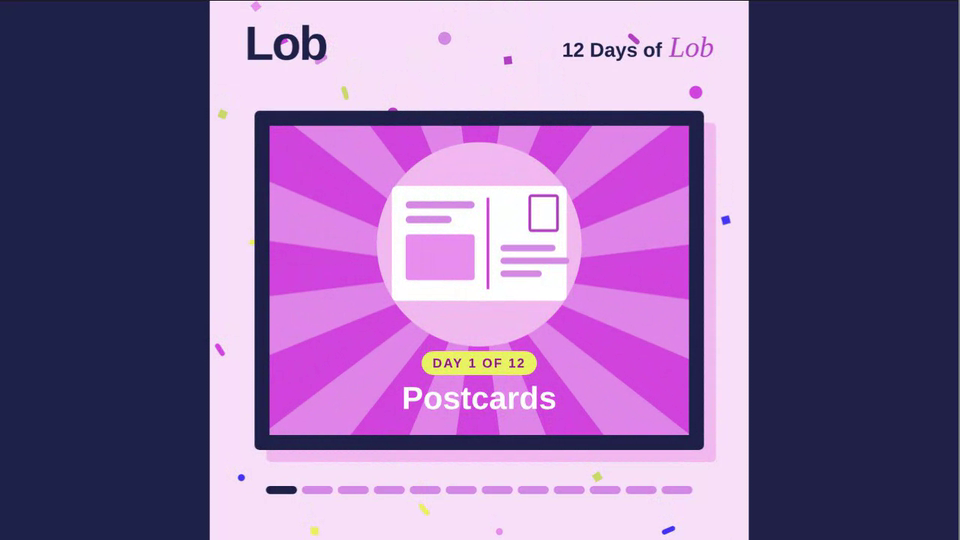
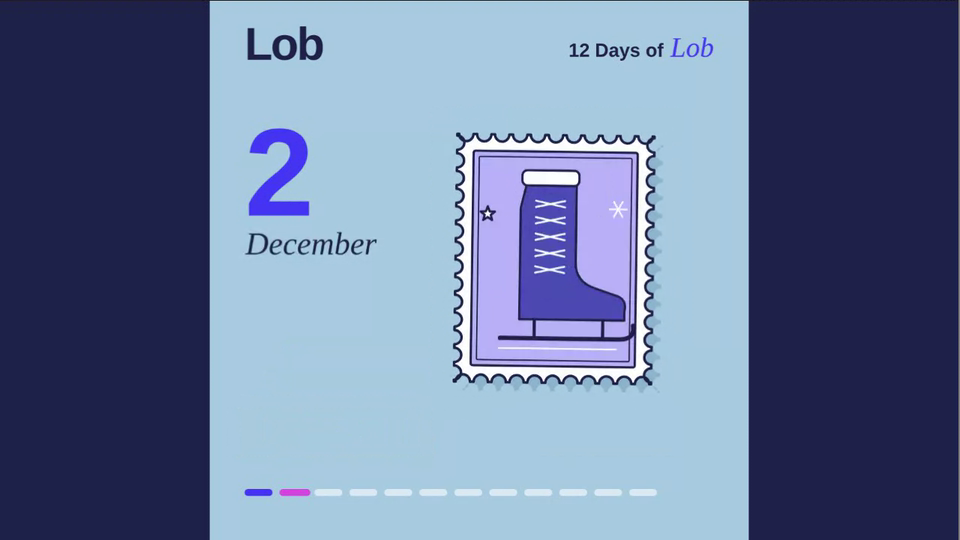
Lob 12 Days Advent: perforated holiday stamp illustrations in Lob pink and purple on blue, generous negative space
Claude-Session: https://claude.ai/code/session_01AHeBdxfESGkB61WPERPkmT

diff --git a/lob-12-days/index.html b/lob-12-days/index.html
@@ -4,7 +4,7 @@
 <meta charset="utf-8">
 <meta name="viewport" content="width=device-width, initial-scale=1, viewport-fit=cover">
 <title>Lob 12 Days Advent</title>
-<meta name="description" content="A 1:1 social motion post for the 12 Days of Lob advent calendar: a wrapped door opens on each day, revealing a flat vector illustration and a title.">
+<meta name="description" content="A 1:1 social motion post for the 12 Days of Lob advent calendar: a perforated holiday stamp drops in for each day with a flat line-art illustration and a title.">
 <style>
 :root{--sans:"Inter","Helvetica Neue",Helvetica,Arial,sans-serif;--navy:#1F2149;--pink:#F8E0F9;--mag:#B042C2;--btn:#4534F2}
 *{box-sizing:border-box;margin:0}
@@ -16,7 +16,7 @@ nav.back a{color:#8d8d8d;text-decoration:none}nav.back a:hover,nav.back a:focus-
 nav.back span{color:#6e6e6e}nav.back b{font-weight:500;color:#fff;overflow:hidden;text-overflow:ellipsis}
 @media(max-width:640px){nav.back{padding:0 16px}nav.back .x{display:none}}
 .wrap{flex:1;min-height:0;display:flex;align-items:center;justify-content:center;padding:12px}
-canvas{display:block;aspect-ratio:1/1;width:min(100%,calc(100dvh - 49px - 120px));max-width:100%;height:auto;background:var(--pink)}
+canvas{display:block;aspect-ratio:1/1;width:min(100%,calc(100dvh - 49px - 120px));max-width:100%;height:auto;background:#A9CCE0}
 .ctl{flex:none;display:flex;flex-wrap:wrap;gap:10px;align-items:center;justify-content:center;padding:10px 16px 16px}
 .days{display:flex;flex-wrap:wrap;gap:6px;justify-content:center}
 .days button,.ctl .b{min-width:34px;height:34px;padding:0 12px;border-radius:99px;border:1px solid rgba(255,255,255,.25);background:none;cursor:pointer;font-weight:600}
@@ -43,11 +43,11 @@ button:focus-visible,input:focus-visible{outline:2px solid #EAF265;outline-offse
 (function(){
 const CLIP=location.hash==='#clip';
 if(CLIP)document.body.classList.add('clip');
-const LW=6,S=1080;
+const LW=4,S=1080;
 const C={bg:'#F8E0F9',shadow:'#F1B9F0',navy:'#1F2149',tab:'#2B2D6D',mag:'#B042C2',lime:'#C9DA6A',blue:'#5049BC',card:'#D244DE',panel:'#E084E9',pale:'#E88EEE',yellow:'#EAF265',btn:'#4534F2',btnDown:'#2A1BC4',plus:'#9382F4',chip:'#D489E4',chipInk:'#8F1A96',white:'#fff'};
-const titles=['Postcards','Address verification','QR codes','Postage','Local targeting','Letters','Send scheduling','Replies','Video follow-ups','Gift sends','Customer love','Happy holidays'];
+const titles=['Tree trimming','Ice skates','Cozy cat','Ornaments','Hot cocoa','Wreath','Mini tree','Candy canes','Holly','Gift wrap','Snow globe','Stocking'];
 const D=4.4;
-let day=0,lt=0,playing=true,speed=CLIP?2:1,T=0;
+let day=0,lt=CLIP?1.9:0,playing=true,speed=CLIP?2:1,T=0;
 const cv=document.getElementById('c'),x=cv.getContext('2d');
 
 /* ---------- helpers ---------- */
@@ -66,118 +66,127 @@ function txt(s,a,b,size,col,{w='bold',f='Arial',al='left',ls=0,it=false,max=0}={
   if(max){while(x.measureText(s).width>max&&sz>20){sz-=2;set()}}
   x.fillText(s,a,b);x.restore()}
 
-/* ---------- background confetti ---------- */
-function confetti(){
-  const cols=[C.mag,C.card,C.lime,C.btn,C.yellow,C.pale,C.chip];
-  for(let i=0;i<46;i++){
-    const sp=18+(i%4)*9,px=(i*137.5)%S+Math.sin(T*.8+i)*14,py=((i*91+T*sp)%(S+120))-60,c=cols[i%7],r=T*(.6+i%3*.4)+i;
-    x.save();x.translate(px,py);x.rotate(r);x.fillStyle=c;
-    const k=i%3;if(k===0){x.beginPath();x.arc(0,0,7+i%4*2,0,7);x.fill()}else if(k===1)x.fillRect(-8,-8,16,16);else rr(-14,-5,28,10,5,c);
-    x.restore()}
-}
-
-/* ---------- bow ---------- */
-function bow(cx,cy,s,rot,a){
-  x.save();x.globalAlpha=a;x.translate(cx,cy);x.rotate(rot);x.scale(s,s);
-  const loop=(sg)=>{x.beginPath();x.moveTo(0,0);x.bezierCurveTo(sg*30,-90,sg*150,-100,sg*150,-40);x.bezierCurveTo(sg*150,10,sg*60,20,0,0);x.fillStyle=C.card;x.fill();x.strokeStyle=C.mag;x.lineWidth=LW;x.stroke();
-    x.beginPath();x.moveTo(sg*18,-6);x.bezierCurveTo(sg*50,-50,sg*100,-60,sg*118,-38);x.strokeStyle=C.pale;x.stroke()};
-  poly([[-26,10],[-70,90],[-40,84],[-26,110],[0,20]],C.mag);poly([[26,10],[70,90],[40,84],[26,110],[0,20]],C.mag);
-  loop(-1);loop(1);rr(-28,-26,56,52,14,C.mag,C.navy);
-  x.restore()}
-
-/* ---------- illustrations (centred on 0,0, ~380 wide) ---------- */
-const ill=[
- ()=>{rr(-190,-125,380,250,10,C.white);x.fillStyle=C.card;x.fillRect(16,-100,LW,200);
-  pill(-160,-84,150,16,C.chip);pill(-160,-52,100,16,C.chip);rr(-160,-20,150,100,6,C.pale);
-  rr(110,-104,60,76,4,null,C.mag);pill(46,10,120,14,C.chip);pill(46,38,150,14,C.chip);pill(46,66,90,14,C.chip);
-  x.setLineDash([8,9]);x.lineDashOffset=-T*20;rr(40,-100,0,0,0);x.setLineDash([])},
- ()=>{rr(-18,40,36,150,6,C.chip);x.beginPath();x.moveTo(-140,50);x.lineTo(-140,-20);x.arc(0,-20,140,Math.PI,0);x.lineTo(140,50);x.closePath();x.fillStyle=C.navy;x.fill();
-  rr(-40,-70,0,0,0);rr(-96,-10,192,10,5,C.tab);rr(-60,-122+(Math.sin(T*4)*3),120,90,6,C.white);pill(-40,-100,80,10,C.chip);pill(-40,-76,50,10,C.chip);
-  x.save();x.translate(150,-30);x.rotate(-.1*Math.sin(T*3));rr(-8,-90,16,120,4,C.chip);rr(0,-92,70,40,6,C.yellow);x.restore()},
- ()=>{rr(-150,-150,300,300,14,C.white);const cs=18,o=-135;
-  const fin=(i,j)=>{rr(o+i*cs,o+j*cs,7*cs,7*cs,4,C.navy);rr(o+(i+1)*cs,o+(j+1)*cs,5*cs,5*cs,2,C.white);rr(o+(i+2)*cs,o+(j+2)*cs,3*cs,3*cs,2,C.mag)};
-  fin(0,0);fin(8,0);fin(0,8);
-  for(let i=0;i<15;i++)for(let j=0;j<15;j++){if((i<8&&j<8)||(i>=8&&j<8)||(i<8&&j>=8))continue;if(((i*7+j*13+i*j)%5)<2)continue;rr(o+i*cs+2,o+j*cs+2,cs-4,cs-4,2,(i+j)%6?C.navy:C.mag)}
-  x.fillStyle=C.yellow;x.globalAlpha=.9;x.fillRect(-150,-150+((T*140)%300),300,LW);x.globalAlpha=1},
- ()=>{x.save();x.rotate(Math.sin(T*1.8)*.05);rr(-130,-165,260,330,4,C.yellow);x.fillStyle=C.card;for(let k=-5;k<=5;k++){circ(k*24,-165,8,C.card);circ(k*24,165,8,C.card)}for(let k=-6;k<=6;k++){circ(-130,k*24,8,C.card);circ(130,k*24,8,C.card)}
-  rr(-104,-138,208,276,2,C.navy);x.save();x.translate(0,8);heart(C.white,.78+Math.max(0,Math.sin(T*3))*.04);x.restore();x.restore()},
- ()=>{for(let i=0;i<3;i++){const p=((T*.5+i/3)%1);x.save();x.globalAlpha=1-p;x.beginPath();x.ellipse(0,120,60+p*150,18+p*40,0,0,7);x.strokeStyle=C.white;x.lineWidth=LW;x.stroke();x.restore()}
-  const by=-Math.abs(Math.sin(T*2.4))*18;x.save();x.translate(0,by);x.beginPath();x.moveTo(0,125);x.bezierCurveTo(-30,70,-125,30,-125,-40);x.arc(0,-40,125,Math.PI,0);x.bezierCurveTo(125,30,30,70,0,125);x.fillStyle=C.yellow;x.fill();circ(0,-40,56,C.navy);circ(0,-40,22,C.yellow);x.restore()},
- ()=>{rr(-190,-110,380,230,8,C.white);poly([[-190,-102],[0,30],[190,-102]],C.pale,C.chipInk);poly([[-190,112],[-60,-10],[-52,-4],[0,32]],null,C.chipInk);poly([[190,112],[60,-10],[52,-4],[0,32]],null,C.chipInk);circ(0,28,30,C.mag);star(0,28,16,8,5,C.yellow,-Math.PI/2+T)},
- ()=>{rr(-170,-150,340,300,10,C.white);rr(-170,-150,340,64,10,C.navy);x.fillStyle=C.navy;x.fillRect(-170,-120,340,34);
-  for(const px of[-90,0,90])rr(px-14,-176,28,56,14,C.yellow);
-  const cell=(i,j)=>[-135+i*58,-62+j*58];const ticks=[[0,0],[2,0],[1,1],[3,2],[0,2]];
-  for(let j=0;j<3;j++)for(let i=0;i<5;i++){const[cx,cy]=cell(i,j);rr(cx,cy,46,46,4,C.bg)}
-  const per=.3,n=ticks.length,pr=((T*1.1)%(n+1.5));
-  ticks.forEach(([i,j],k)=>{const p=cl(pr-k*1)*1;const pp=cl(pr-k);if(pp<=0)return;const[cx,cy]=cell(i,j);x.beginPath();x.moveTo(cx+10,cy+24);x.lineTo(cx+10+12*cl(pp*2.5),cy+24+10*cl(pp*2.5));if(pp>.4){x.lineTo(cx+22+(30-22+2)*cl((pp-.4)*2.5),cy+34-(34-10)*cl((pp-.4)*2.5))}x.strokeStyle=C.btn;x.lineWidth=LW+2;x.lineCap='round';x.lineJoin='round';x.stroke();x.lineCap='butt'})},
- ()=>{const b=Math.sin(T*2)*6;x.save();x.translate(-30,-30+b);x.beginPath();x.roundRect(-150,-90,300,170,26);x.fillStyle=C.yellow;x.fill();poly([[-90,70],[-60,70],[-100,120]],C.yellow);pill(-110,-40,140,14,C.mag);pill(-110,-8,220,14,C.mag);pill(-110,24,100,14,C.mag);x.restore();
-  x.save();x.translate(70,76-b);x.beginPath();x.roundRect(-20,-30,160,100,22);x.fillStyle=C.btn;x.fill();poly([[90,60],[120,60],[130,100]],C.btn);for(let i=0;i<3;i++)circ(20+i*34,20-Math.abs(Math.sin(T*4-i*.6))*12,8,C.white);x.restore()},
- ()=>{rr(-190,-120,380,240,22,C.navy);const p=1+Math.sin(T*4)*.06;x.save();x.scale(p,p);poly([[-30,-52],[-30,52],[56,0]],C.yellow);x.restore();
-  rr(-160,84,320,16,8,C.tab);const w=((T*.18)%1)*320;rr(-160,84,w,16,8,C.card);circ(-160+w,92,16,C.white);pill(-160,-96,70,10,C.tab);pill(110,-96,50,10,C.tab)},
- ()=>{const b=Math.abs(Math.sin(T*3))*10;rr(-150,-10,300,160,6,C.yellow);rr(-160,-60-b,320,56,6,C.lime);rr(-26,-60-b,52,210,0,C.card);x.fillStyle=C.card;x.fillRect(-26,-4,52,154);x.fillStyle=C.mag;x.fillRect(-26,-60-b,52,56);
-  x.save();x.translate(0,-60-b);x.beginPath();x.moveTo(0,0);x.bezierCurveTo(-30,-70,-110,-70,-90,-20);x.bezierCurveTo(-80,10,-30,0,0,0);x.moveTo(0,0);x.bezierCurveTo(30,-70,110,-70,90,-20);x.bezierCurveTo(80,10,30,0,0,0);x.fillStyle=C.white;x.fill();x.restore()},
- ()=>{const p=1+Math.max(0,Math.sin(T*3))*.07;x.save();x.translate(0,10);x.scale(p,p);x.scale(1.7,1.7);heart(C.white);x.restore();
-  for(let i=0;i<4;i++){const a=T*.8+i*Math.PI/2,r=190+Math.sin(T*2+i)*10;star(Math.cos(a)*r,Math.sin(a)*r*.7,20,8,4,i%2?C.yellow:C.lime,T)}},
- ()=>{x.save();x.translate(0,20);poly([[0,-170],[110,-40],[-110,-40]],C.lime);poly([[0,-90],[140,50],[-140,50]],C.lime,C.bg);poly([[0,-10],[175,140],[-175,140]],C.lime,C.bg);
-  x.setLineDash([2,14]);x.lineCap='round';x.beginPath();x.moveTo(-95,-30);x.quadraticCurveTo(0,10,95,-30);x.moveTo(-130,60);x.quadraticCurveTo(0,110,130,60);x.strokeStyle=C.btn;x.stroke();x.setLineDash([]);x.lineCap='butt';
-  rr(-22,140,44,40,0,C.navy);star(0,-190,34,14,5,C.yellow,-Math.PI/2);
-  [[0,-60],[-60,10],[60,10],[-100,100],[0,90],[100,100]].forEach(([a,b],i)=>{x.save();x.translate(a,b+Math.sin(T*3+i)*3);x.fillStyle=C.chipInk;x.beginPath();x.ellipse(0,6,8,14,0,0,7);x.fill();circ(-12,-12,6,C.chipInk);circ(12,-12,6,C.chipInk);x.fillRect(-2,16,4,10);x.restore()});x.restore()}
+/* ---------- stamp illustrations (flat fills, navy line work, perforated frames) ---------- */
+const BG='#A9CCE0',NV='#1F2149',PUR='#4B49B2',PUR2='#3B3A99',TINT='#B9B0F7',PK='#D244DE',PKL='#F1B9F0',PKXL='#F8E0F9',WH='#FFFFFF',SH='#8DB5CE';
+function sk(w){x.strokeStyle=NV;x.lineWidth=w||3.5;x.lineJoin='round';x.lineCap='round'}
+function fin(fill,stroke=true){if(fill){x.fillStyle=fill;x.fill()}if(stroke){sk();x.stroke()}}
+function poly(pts,fill,stroke){x.beginPath();pts.forEach((p,i)=>x[i?'lineTo':'moveTo'](p[0],p[1]));x.closePath();fin(fill,stroke)}
+function cir(cx,cy,r,fill,stroke){x.beginPath();x.arc(cx,cy,r,0,7);fin(fill,stroke)}
+function rct(px,py,w,h,r,fill,stroke){x.beginPath();x.roundRect(px,py,w,h,r);fin(fill,stroke)}
+function ell(cx,cy,rx,ry,rot,fill,stroke){x.beginPath();x.ellipse(cx,cy,rx,ry,rot||0,0,7);fin(fill,stroke)}
+function ln(pts,w,col){x.beginPath();pts.forEach((p,i)=>x[i?'lineTo':'moveTo'](p[0],p[1]));x.strokeStyle=col||NV;x.lineWidth=w||3.5;x.lineCap='round';x.lineJoin='round';x.stroke()}
+function spark(cx,cy,r,col,rot){x.save();x.translate(cx,cy);x.rotate(rot||0);for(let i=0;i<3;i++){x.rotate(Math.PI/3);ln([[-r,0],[r,0]],2.6,col||WH)}x.restore()}
+function stars(cx,cy,r1,r2,fill,rot){x.beginPath();for(let i=0;i<10;i++){const r=i%2?r2:r1,a=(rot||-Math.PI/2)+i*Math.PI/5;x.lineTo(cx+Math.cos(a)*r,cy+Math.sin(a)*r)}x.closePath();fin(fill)}
+function holly(lx,ly,rot,sc,col){x.save();x.translate(lx,ly);x.rotate(rot);x.scale(sc,sc);x.beginPath();x.moveTo(0,0);
+  const up=[[14,-16],[18,-8],[32,-24],[38,-9],[56,-22],[64,-4],[84,0]];up.forEach(p=>x.lineTo(p[0],p[1]));[[64,4],[56,22],[38,9],[32,24],[18,8],[14,16]].forEach(p=>x.lineTo(p[0],p[1]));x.closePath();fin(col);ln([[6,0],[70,0]],2.4,WH);x.restore()}
+const T_=()=>T;
+const art=[
+ /* 1 tree */ ()=>{poly([[0,-5],[118,112],[-118,112]],PUR);poly([[0,-68],[90,40],[-90,40]],PUR);poly([[0,-126],[58,-34],[-58,-34]],PUR);
+   rct(-50,108,100,18,4,PK);rct(-42,126,84,54,4,PK);
+   [[-40,70],[30,60],[-18,-10],[50,14],[0,-70]].forEach(([a,b])=>ln([[a,b],[a+8,b+17]],3,WH));
+   cir(-62,98,12,WH);cir(66,92,12,WH);cir(-30,26,11,WH);cir(40,-2,10,WH);cir(8,-60,9,WH);
+   const pu=1+Math.sin(T*3)*.08;x.save();x.translate(0,-148);x.scale(pu,pu);stars(0,0,26,11,PK);x.restore();spark(-120,-100,12,TINT);spark(112,-120,9,TINT)},
+ /* 2 skate */ ()=>{x.beginPath();x.moveTo(-42,-130);x.lineTo(34,-130);x.lineTo(34,6);x.quadraticCurveTo(34,36,66,46);x.lineTo(102,58);x.quadraticCurveTo(116,64,112,82);x.lineTo(112,96);x.lineTo(-54,96);x.lineTo(-54,-80);x.closePath();fin(PUR);
+   rct(-52,-140,90,24,8,WH);for(let y=-92;y<30;y+=26){ln([[-30,y],[16,y+10]],3,WH);ln([[16,y],[-30,y+10]],3,WH)}
+   x.beginPath();x.moveTo(-84,126);x.lineTo(104,126);x.quadraticCurveTo(130,126,126,104);sk(7);x.stroke();ln([[-30,96],[-30,126]],5);ln([[78,96],[78,126]],5);
+   ln([[-86,142],[100,142]],2.5,WH);stars(-106,-70,12,5,WH);spark(100,-80,14,WH)},
+ /* 3 cat in a box */ ()=>{x.beginPath();x.moveTo(-40,-60);x.bezierCurveTo(-140,-80,-120,-170,-60,-150);sk(30);x.stroke();x.beginPath();x.moveTo(-40,-60);x.bezierCurveTo(-140,-80,-120,-170,-60,-150);x.strokeStyle=WH;x.lineWidth=22;x.stroke();
+   ell(0,-6,98,64,0,WH);ell(-40,-18,26,22,0,TINT);poly([[40,-100],[52,-140],[82,-112]],WH);poly([[86,-100],[116,-136],[126,-90]],WH);cir(86,-60,52,WH);
+   cir(70,-62,5,NV,false);cir(104,-62,5,NV,false);ell(87,-46,6,4,0,PK);ln([[78,-36],[87,-30],[96,-36]],2.6);
+   poly([[-132,40],[132,40],[112,150],[-112,150]],WH);ln([[-132,40],[-100,70],[100,70],[132,40]],3);rct(-34,86,68,12,6,PUR,false);
+   x.beginPath();x.moveTo(-96,-26);x.bezierCurveTo(-40,10,10,-50,70,10);ln([[-96,-26],[-60,0],[-20,-14],[20,-18],[60,6]],2.6);
+   [[-90,-22,PK],[-50,2,WH],[-8,-14,PK],[28,-24,WH],[66,8,PK]].forEach(([a,b,c])=>cir(a,b,8,c));spark(-120,-120,12,WH);spark(130,-30,9,WH)},
+ /* 4 ornaments */ ()=>{[[-150,-72],[-52,-88],[50,-72],[148,-100]].forEach(([bx,by],i)=>{ln([[bx,-130],[bx,by-44]],2.6);});
+   rct(-163,-60,26,14,3,NV,false);cir(-150,-12,52,WH);spark(-150,-12,22,TINT);
+   rct(-62,-100,20,12,3,NV,false);x.beginPath();x.ellipse(-52,-30,36,60,0,0,7);fin(PK);ln([[-70,-36],[-52,-10]],3,PKXL);
+   rct(38,-60,24,14,3,NV,false);cir(50,-8,48,WH);spark(50,-8,20,TINT);
+   rct(138,-112,20,12,3,NV,false);x.beginPath();x.ellipse(148,-40,32,56,0,0,7);fin(PUR2);ln([[148,-96],[148,16]],2.4,TINT);
+   spark(-100,90,12,TINT);cir(100,100,5,TINT,false);cir(-10,110,4,WH,false)},
+ /* 5 cocoa */ ()=>{x.beginPath();x.arc(84,40,36,-1.3,1.3);sk(24);x.stroke();x.strokeStyle=PUR;x.lineWidth=14;x.stroke();
+   rct(-74,-20,148,126,16,PUR);rct(-56,-8,22,100,10,PUR2,false);
+   ell(0,-26,78,26,0,PK);x.beginPath();x.moveTo(-50,-56);x.bezierCurveTo(-60,-110,60,-120,56,-56);x.closePath();fin(PK);
+   [[-20,-70,-.3],[30,-62,.4],[-62,-58,.8]].forEach(([a,b,r])=>{x.save();x.translate(a,b);x.rotate(r);rct(-18,-18,36,36,6,WH);x.restore()});
+   [[-110,100,-.3],[104,112,.5]].forEach(([a,b,r])=>{x.save();x.translate(a,b);x.rotate(r);rct(-20,-20,40,40,7,WH);x.restore()});
+   ln([[-12,-10],[-4,10]],3,PKXL);spark(-120,-70,11,WH);spark(130,-40,9,WH)},
+ /* 6 wreath */ ()=>{for(let k=0;k<2;k++)for(let i=0;i<14;i++){const a=i*Math.PI*2/14+k*.22,r=k?78:104;x.save();x.translate(Math.cos(a)*r,Math.sin(a)*r+8);x.rotate(a+Math.PI/2+(k?.5:-.4));x.beginPath();x.ellipse(0,0,30,12,0,0,7);fin(PUR);ln([[-18,0],[20,0]],2,TINT);x.restore()}
+   [[.5],[2.1],[3.6],[5.3],[1.3]].forEach(([a],i)=>{cir(Math.cos(a)*92,Math.sin(a)*92+8,8,i%2?PKL:PK)});
+   ell(-34,-102,38,20,-.5,WH);ell(34,-102,38,20,.5,WH);cir(0,-98,13,WH);poly([[-8,-90],[-26,-52],[-6,-62]],WH);poly([[8,-90],[28,-52],[8,-62]],WH);
+   spark(-130,-110,11,TINT);spark(130,110,11,TINT);cir(130,-70,4,TINT,false)},
+ /* 7 mini tree */ ()=>{poly([[0,-60],[44,-14],[-44,-14]],WH);poly([[0,-30],[64,50],[-64,50]],WH);poly([[0,10],[84,110],[-84,110]],WH);
+   [[-36,-4],[0,6],[36,-4]].forEach(([a,b])=>0);for(let i=0;i<7;i++){cir(-50+i*16.6,22+Math.sin(i/6*Math.PI)*16,3,NV,false)}for(let i=0;i<9;i++){cir(-68+i*17,76+Math.sin(i/8*Math.PI)*18,3,NV,false)}for(let i=0;i<5;i++){cir(-26+i*13,-26+Math.sin(i/4*Math.PI)*10,2.6,NV,false)}
+   rct(-24,110,48,38,2,NV,false);const pu=1+Math.sin(T*3)*.1;x.save();x.translate(0,-84);x.scale(pu,pu);stars(0,0,20,8,PK);x.restore();spark(-70,-50,9,PKL)},
+ /* 8 candy canes */ ()=>{const cane=(rot,ox,oy)=>{x.save();x.translate(ox,oy);x.rotate(rot);x.beginPath();x.moveTo(-26,150);x.lineTo(-26,-40);x.arc(24,-40,50,Math.PI,0);x.lineTo(74,-14);
+     x.strokeStyle=NV;x.lineWidth=42;x.lineCap='butt';x.stroke();x.strokeStyle=WH;x.lineWidth=34;x.stroke();x.strokeStyle=PK;x.lineWidth=34;x.setLineDash([14,20]);x.lineDashOffset=-4;x.stroke();x.setLineDash([]);x.restore()};
+   cane(-.3,-30,10);cane(1.15,70,70);stars(110,-110,18,7,PK);stars(-110,-50,12,5,PK);[[-1,0],[0,-1],[1,-.6]].forEach(([a,b])=>ln([[90+a*34,-110+b*34],[90+a*52,-110+b*52]],3));
+   ln([[-120,-100],[-100,-80]],3);ln([[-96,-120],[-86,-96]],3)},
+ /* 9 holly */ ()=>{holly(-4,40,-2.3,1.9,PUR);holly(4,40,-.8,1.9,PUR);holly(-4,50,3.6,1.6,PUR);holly(4,50,.6,1.6,PUR);cir(-18,42,17,PK);cir(18,42,17,PK);cir(0,16,17,PK);ln([[-24,36],[-20,32]],3,PKXL);spark(-140,-80,12,TINT);spark(140,80,12,TINT)},
+ /* 10 gift */ ()=>{holly(-10,-90,-2.6,1.4,TINT);holly(10,-90,-.5,1.4,TINT);cir(0,-98,11,PK);cir(-16,-96,9,PKL);cir(16,-96,9,PKL);
+   poly([[-118,-60],[118,-72],[112,106],[-112,116]],WH);ln([[-6,-66],[-2,112]],3);ln([[-118,-6],[114,-14]],3);ell(-30,-82,34,18,-.5,WH);ell(30,-86,34,18,.5,WH);cir(0,-80,10,WH);
+   spark(-130,-110,10,WH);cir(110,-120,3,WH,false);cir(-120,126,3,WH,false)},
+ /* 11 snow globe */ ()=>{cir(0,-18,122,PKL);cir(0,-18,122,null);x.beginPath();x.arc(0,-18,122,0,7);sk();x.stroke();
+   cir(0,56,50,WH);cir(0,-14,36,WH);rct(-28,-60,56,10,3,NV,false);rct(-18,-96,36,40,3,NV,false);ln([[-36,16],[-90,-20]],3);ln([[36,16],[84,-24]],3);
+   poly([[-22,10],[30,8],[34,26],[-18,30]],PK);ell(26,-12,9,5,-.1,PK);cir(-12,-20,3,NV,false);cir(10,-20,3,NV,false);for(let i=0;i<3;i++)cir(0,40+i*18,3.5,NV,false);
+   [[-80,-70],[-60,-100],[80,-60],[90,20],[-86,10],[60,-96]].forEach(([a,b],i)=>cir(a,b+Math.sin(T*2+i)*3,4,WH,false));
+   poly([[-72,104],[72,104],[96,168],[-96,168]],PUR);for(let i=-3;i<=3;i++)ln([[i*22,112],[i*26,160]],2.4,TINT);rct(-100,162,200,14,4,PUR2)},
+ /* 12 stocking */ ()=>{x.beginPath();x.moveTo(-54,-110);x.lineTo(54,-110);x.lineTo(54,10);x.quadraticCurveTo(54,40,96,60);x.quadraticCurveTo(144,86,122,132);x.quadraticCurveTo(92,164,40,134);x.lineTo(-54,50);x.closePath();fin(PK);
+   x.beginPath();x.moveTo(-54,18);x.lineTo(-54,50);x.lineTo(-4,92);x.lineTo(12,64);x.closePath();fin(PUR);x.beginPath();x.moveTo(90,86);x.quadraticCurveTo(144,88,122,132);x.quadraticCurveTo(100,150,76,134);x.closePath();fin(PUR);
+   rct(-66,-136,132,40,10,WH);ln([[-40,-84],[-30,-100]],2.4);ln([[-6,-84],[4,-100]],2.4);ln([[28,-84],[38,-100]],2.4);
+   x.beginPath();x.arc(-40,-146,18,Math.PI*.2,Math.PI*1.45);sk(5);x.stroke();
+   [[-20,-60],[18,-40],[-18,-14],[24,-80]].forEach(([a,b],i)=>cir(a,b,5,PKXL,false));spark(-130,-60,11,WH);spark(130,-40,11,WH)}
 ];
+const spec=[
+ {w:380,h:470,body:WH,inner:WH,line:true},{w:310,h:390,body:WH,inner:TINT,line:true},{w:390,h:440,body:PUR2,inner:PUR,line:false},
+ {w:470,h:340,body:WH,inner:WH,line:true},{w:470,h:360,body:PK,inner:PKL,line:false},{w:390,h:470,body:WH,inner:WH,line:true},
+ {w:290,h:400,body:PK,inner:WH,line:false},{w:380,h:470,body:WH,inner:WH,line:true},{w:470,h:340,body:WH,inner:WH,line:true},
+ {w:390,h:440,body:PUR2,inner:PUR,line:false},{w:390,h:440,body:PK,inner:PKXL,line:false},{w:340,h:450,body:WH,inner:TINT,line:true}
+];
+function stampPath(w,h,r){const n=Math.round(w/28),m=Math.round(h/28);
+  const edge=(x0,y0,x1,y1,nx,ny,cnt)=>{for(let i=0;i<cnt;i++){const ax=x0+(x1-x0)*i/cnt,ay=y0+(y1-y0)*i/cnt,bx=x0+(x1-x0)*(i+1)/cnt,by=y0+(y1-y0)*(i+1)/cnt,cx=(ax+bx)/2,cy=(ay+by)/2,rr=Math.hypot(bx-ax,by-ay)/2*.8;
+    const ta=Math.atan2(ay-cy,ax-cx),tb=Math.atan2(by-cy,bx-cx),tn=Math.atan2(ny,nx);const cw=((tn-ta+Math.PI*2)%(Math.PI*2))<Math.PI;x.lineTo(ax,ay);x.lineTo(cx+Math.cos(ta)*rr,cy+Math.sin(ta)*rr);x.arc(cx,cy,rr,ta,tb,!cw)}};
+  x.beginPath();x.moveTo(-w/2,-h/2);edge(-w/2,-h/2,w/2,-h/2,0,1,n);edge(w/2,-h/2,w/2,h/2,-1,0,m);edge(w/2,h/2,-w/2,h/2,0,-1,n);edge(-w/2,h/2,-w/2,-h/2,1,0,m);x.closePath()}
+function stamp(d,sc,rot,off,shadow){
+  const sp=spec[d];x.save();x.translate(off,off);x.rotate(rot);x.scale(sc,sc);
+  stampPath(sp.w,sp.h);if(shadow){x.fillStyle=SH;x.fill();x.restore();return}
+  x.fillStyle=sp.body;x.fill();if(sp.line){sk(4);x.stroke()}
+  const iw=sp.w-52,ih=sp.h-52;x.beginPath();x.roundRect(-iw/2,-ih/2,iw,ih,3);x.fillStyle=sp.inner;x.fill();sk(3.5);x.stroke();
+  if(!sp.line||d===1){x.beginPath();x.roundRect(-iw/2+9,-ih/2+9,iw-18,ih-18,2);x.strokeStyle=sp.body===PK?NV:(sp.body===WH?NV:TINT);x.lineWidth=2;x.stroke()}
+  x.restore()}
+function mixc(a,b,k){const p=h=>[1,3,5].map(i=>parseInt(h.slice(i,i+2),16)),A=p(a),B=p(b);return'rgb('+A.map((v,i)=>Math.round(v+(B[i]-v)*k)).join(',')+')'}
 
-/* ---------- door face (drawn full, then clipped into halves) ---------- */
-const DX=120,DY=250,DW=840,DH=620,CX=DX+DW/2,CY=DY+DH/2;
-function face(n){
-  x.fillStyle=C.btn;x.fillRect(DX,DY,DW,DH);
-  circ(DX+40,DY+60,170,C.blue);circ(DX+DW-30,DY+DH-20,210,C.blue);circ(DX+DW-80,DY+50,70,C.blue);
-  x.fillStyle=C.mag;x.fillRect(CX-26,DY,52,DH);x.fillStyle=C.card;x.fillRect(CX-26,DY,LW,DH);x.fillRect(CX+26-LW,DY,LW,DH);
-  x.save();x.setLineDash([2,16]);x.lineCap='round';x.strokeStyle=C.yellow;x.lineWidth=LW;x.beginPath();x.roundRect(DX+26,DY+26,DW-52,DH-52,18);x.stroke();x.restore();
-  txt(String(n),CX,CY+90,330,C.white,{al:'center'});
-  txt('December',CX,CY+190,86,C.yellow,{al:'center',f:'Georgia,"Times New Roman",serif',it:true,w:'normal'});
-  x.fillStyle=C.shadow;x.fillRect(CX-1,DY,2,DH)}
-
-function scene(d,rv,tt,tcl){
-  x.fillStyle=C.card;x.fillRect(DX,DY,DW,DH);
-  x.save();x.beginPath();x.rect(DX,DY,DW,DH);x.clip();x.translate(CX,CY-20);x.rotate(T*.08);
-  for(let i=0;i<12;i+=1){x.beginPath();x.moveTo(0,0);x.arc(0,0,900,i*Math.PI/6,i*Math.PI/6+Math.PI/12);x.closePath();x.fillStyle=C.panel;x.fill()}x.restore();
-  x.save();x.beginPath();x.rect(DX,DY,DW,DH);x.clip();circ(CX,CY-72,205*rv,C.shadow);x.restore();
-  if(rv>0){x.save();x.beginPath();x.rect(DX,DY,DW,DH);x.clip();x.translate(CX,CY-72+Math.sin(T*2)*6);const s=eob(rv)*.92;x.scale(s,s);ill[d]();x.restore()}
-  x.save();x.globalAlpha=tt;const off=(1-tt)*24;
-  const lbl='DAY '+(d+1)+' OF 12';x.font='bold 26px Arial';x.letterSpacing='3px';const lw=x.measureText(lbl).width+44;
-  rr(CX-lw/2,DY+DH-168+off,lw,48,24,C.yellow);txt(lbl,CX,DY+DH-135+off,26,C.chipInk,{al:'center',ls:3});
-  txt(titles[d],CX,DY+DH-52+off,64,C.white,{al:'center',max:DW-80});x.restore()}
-
+const HX=690,HY=515;
 function draw(){
-  x.setTransform(1,0,0,1,0,0);x.clearRect(0,0,S,S);x.fillStyle=C.bg;x.fillRect(0,0,S,S);
-  confetti();
-  /* header */
-  txt('Lob',70,118,96,C.navy,{ls:-4});
-  x.font='bold 40px Arial';x.letterSpacing='0px';
-  x.font='italic 58px Georgia,serif';const lobW=x.measureText('Lob').width;
-  txt('Lob',S-70-lobW,112,58,C.mag,{f:'Georgia,serif',it:true,w:'normal',al:'left'});
-  txt('12 Days of',S-70-lobW-14,112,40,C.navy,{al:'right'});
-  /* timeline of this day */
-  const p0=cl(lt/.45),tc=cl((lt-(D-.9))/.7);
-  const e1=eio(cl((lt-.9)/.6)),e2=eio(cl((lt-1.15)/.7)),open=e2*(1-eio(tc));
-  const shown=tc>0?(day+1)%12:day,k=.94+.06*eob(p0);
-  x.save();x.translate(S/2,560);x.scale(k,k);x.translate(-S/2,-560);
-  rr(90+24,220+24,900,680,10,C.shadow);rr(90,220,900,680,10,C.navy);
-  scene(day,eob(cl((lt-1.4)/.6)),eio(cl((lt-1.75)/.5)),tc);
-  /* door halves */
-  const s=1-open;
-  if(s>0.002){
-    x.save();x.translate(DX,0);x.scale(s,1);x.translate(-DX,0);x.beginPath();x.rect(DX,DY,DW/2,DH);x.clip();face(shown+1);x.restore();
-    x.save();x.translate(DX+DW,0);x.scale(s,1);x.translate(-(DX+DW),0);x.beginPath();x.rect(CX,DY,DW/2,DH);x.clip();face(shown+1);x.restore();
-    if(open>0){x.fillStyle='rgba(31,33,73,'+(open*.25)+')';x.fillRect(DX,DY,DW,DH)}
-  }
-  /* bow */
-  if(tc<=0){const wig=lt>.5&&lt<.95?Math.sin((lt-.5)*32)*.1*(1-(lt-.5)/.45):0;
-    bow(S/2,222-300*e1,eob(p0)*(1-.3*e1),wig+.7*e1,1-e1)}
+  x.setTransform(1,0,0,1,0,0);x.clearRect(0,0,S,S);x.fillStyle=BG;x.fillRect(0,0,S,S);
+  txt('Lob',70,118,92,NV,{ls:-4});
+  x.font='italic 56px Georgia,serif';x.letterSpacing='0px';const lobW=x.measureText('Lob').width;
+  txt('Lob',S-70-lobW,112,56,C.btn,{f:'Georgia,serif',it:true,w:'normal'});
+  txt('12 Days of',S-70-lobW-14,112,38,NV,{al:'right'});
+  const ex=1-eio(cl((lt-(D-.7))/.5));
+  const np=eob(cl((lt-.05)/.55)),nS=Math.max(.0001,np*ex),mp=eio(cl((lt-.4)/.4))*ex;
+  x.save();x.translate(70,430);x.scale(nS,nS);txt(String(day+1),0,0,250,C.btn,{ls:-8});x.restore();
+  x.save();x.globalAlpha=mp;txt('December',72,508+(1-mp)*18,64,NV,{f:'Georgia,serif',it:true,w:'normal'});x.restore();
+  /* the stamp drops in, tilts and settles */
+  const p=cl((lt-.2)/.7),sc=Math.max(.0001,eob(p)*ex),rot=(1-eob(p))*-.3+Math.sin(T*1.4)*.012,bob=Math.sin(T*1.6)*5;
+  x.save();x.translate(HX,HY+bob);x.scale(1.25,1.25);
+  stamp(day,sc,rot,14,true);stamp(day,sc,rot,0,false);
+  const ap=Math.max(.0001,eob(cl((lt-.6)/.6))*ex);
+  x.save();x.rotate(rot);x.scale(ap*sc,ap*sc);x.translate(0,spec[day].h>400?4:0);art[day]();x.restore();
   x.restore();
-  /* progress strip */
-  const pw=62,gap=10,x0=(S-(12*pw+11*gap))/2;
-  for(let i=0;i<12;i++){const cur=i===day,ci=i<day?C.btn:cur?C.navy:C.chip;
-    const w=cur?pw*(.5+.5*eob(p0)):pw;rr(x0+i*(pw+gap),980-8,w,16,8,ci);if(cur)rr(x0+i*(pw+gap),972,pw,16,8,null)}
-  x.fillStyle=C.navy}
+  /* label button flies out of the stamp (as in the reference code) */
+  const label=titles[day].toUpperCase();x.font='bold 28px Arial';x.letterSpacing='3.5px';const tw=x.measureText(label).width;
+  const bw=56+tw+30,bh=68,u=cl((lt-1.3)/.9),f=eio(u);
+  if(lt>1.3&&ex>0){
+    const rx=70+bw/2,ry=860,cx=HX+(rx-HX)*f,cy=HY+(ry-HY)*f-120*Math.sin(Math.PI*f);
+    const cw=170+(bw-170)*eob(u),ch=63+(bh-63)*f,sx=Math.max(ex,.001);
+    x.save();x.translate(cx,cy);x.scale(sx,sx);x.fillStyle=mixc(C.yellow,C.btn,f);x.beginPath();x.roundRect(-cw/2,-ch/2,cw,ch,10);x.fill();
+    const ta=cl((f-.55)/.45);
+    if(ta>0){x.globalAlpha=ta;x.strokeStyle=C.plus;x.lineWidth=LW;x.lineCap='square';x.beginPath();x.moveTo(-bw/2+17,0);x.lineTo(-bw/2+39,0);x.moveTo(-bw/2+28,-11);x.lineTo(-bw/2+28,11);x.stroke();
+      txt(label,-bw/2+56,10,28,C.white,{ls:3.5});x.globalAlpha=1}
+    x.restore();
+    const dp=cl((u-.85)/.15)*ex;
+    if(dp>0){x.save();x.globalAlpha=dp;x.strokeStyle=WH;x.lineWidth=LW;x.setLineDash([8,10]);x.lineDashOffset=-T*20;x.lineCap='round';x.beginPath();x.roundRect(70-16,ry-bh/2-16,bw+32,bh+32,14);x.stroke();x.restore()}
+  }
+  for(let i=0;i<12;i++){const cur=i===day;pill(70+i*70,985,cur?62:56,14,i<day?C.btn:cur?PK:'rgba(255,255,255,.6)')}
+}
 
 /* ---------- loop ---------- */
 let last=performance.now();
